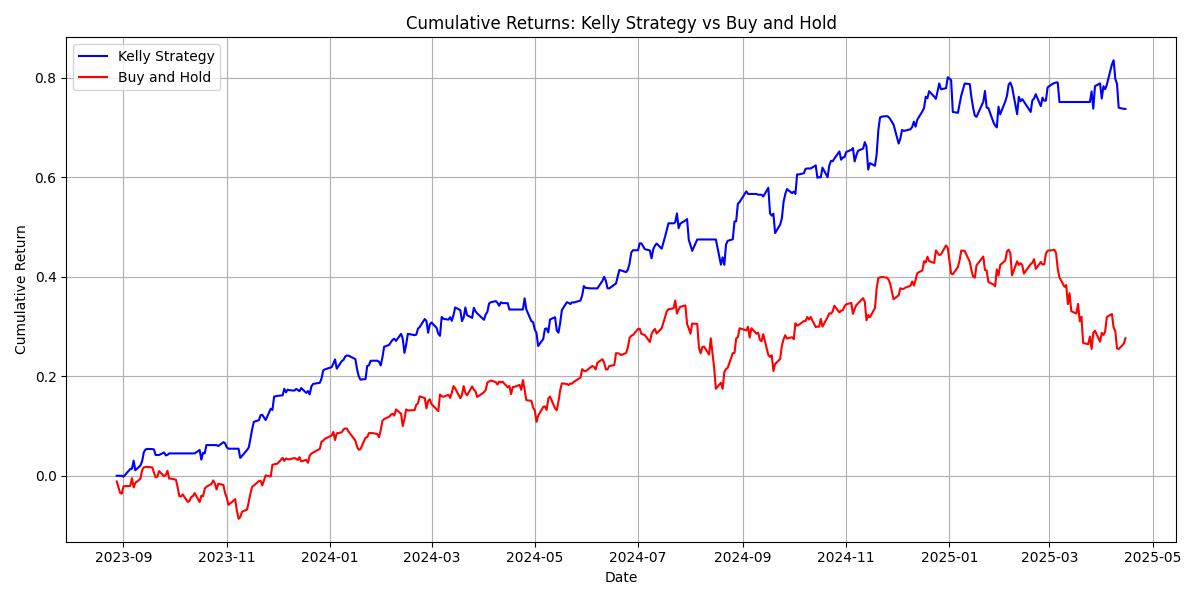
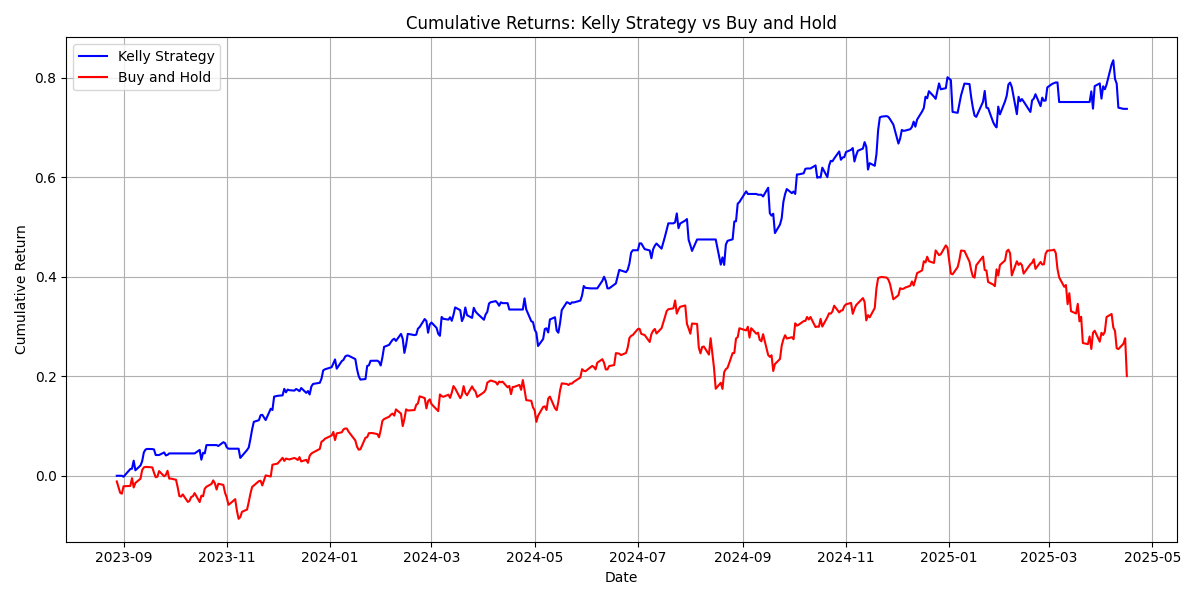
Updated at 04-17-2025 10:28:06

diff --git a/result/result.md b/result/result.md
@@ -3,7 +3,7 @@
 | Initial Balance | $1000000.00 |
 | Final Balance | $1737603.07 |
 | Kelly Strategy Total Return | 73.76% |
-| Buy and Hold Total Return | 27.65% |
-| Kelly Strategy Sharpe Ratio | 2.0716 |
-| Buy and Hold Sharpe Ratio | 0.5628 |
+| Buy and Hold Total Return | 20.03% |
+| Kelly Strategy Sharpe Ratio | 2.0688 |
+| Buy and Hold Sharpe Ratio | 0.4752 |
 | Number of trades | 45 |
